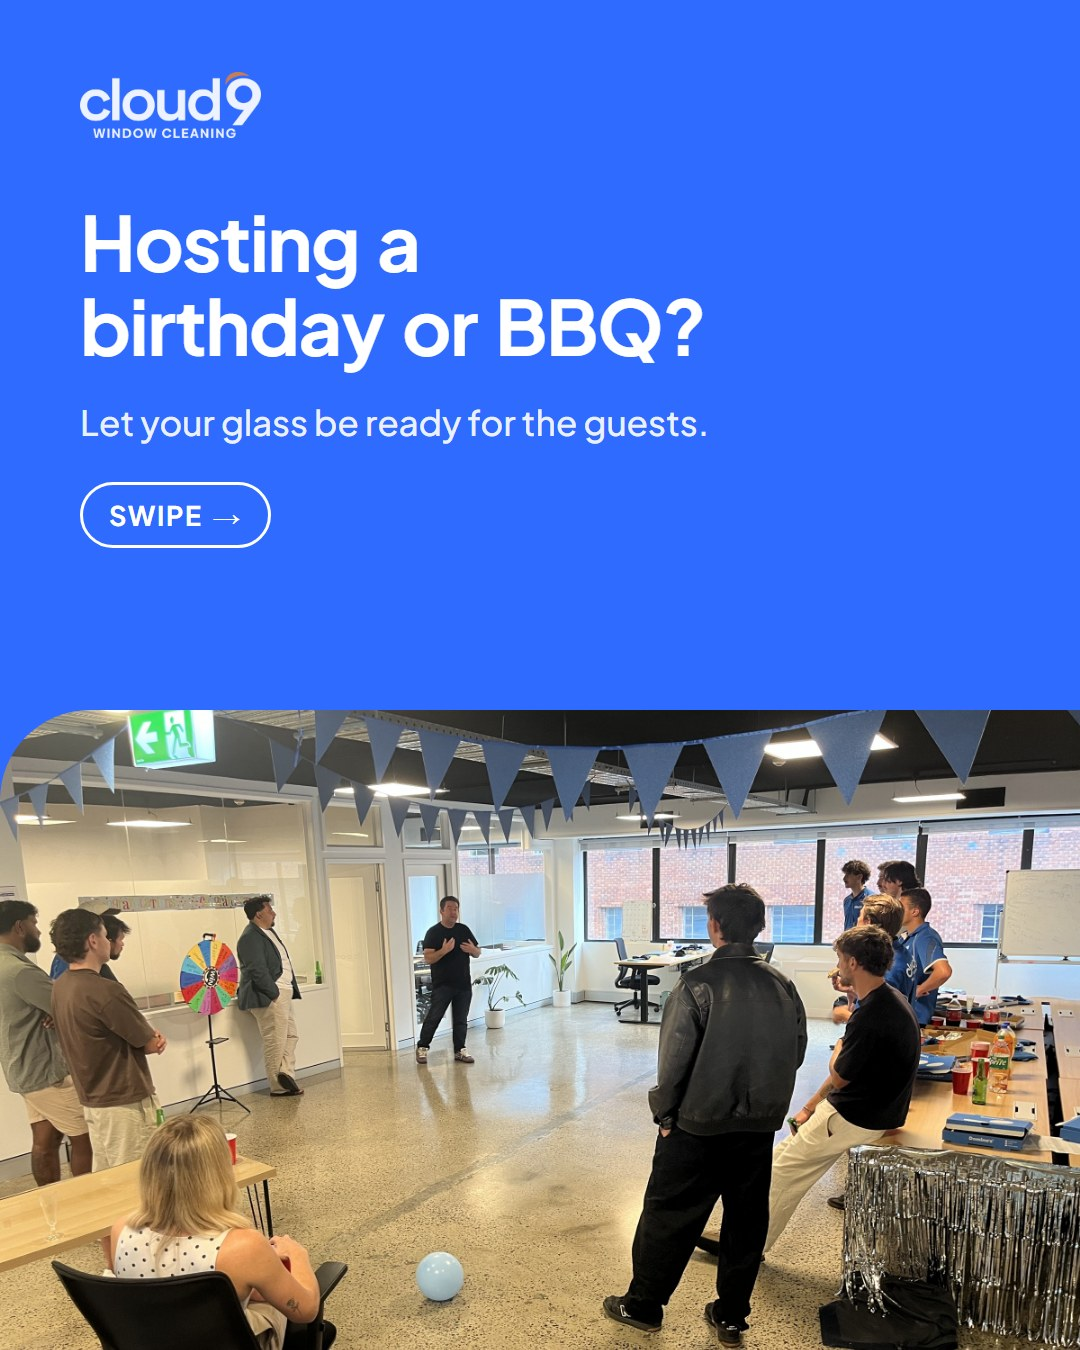
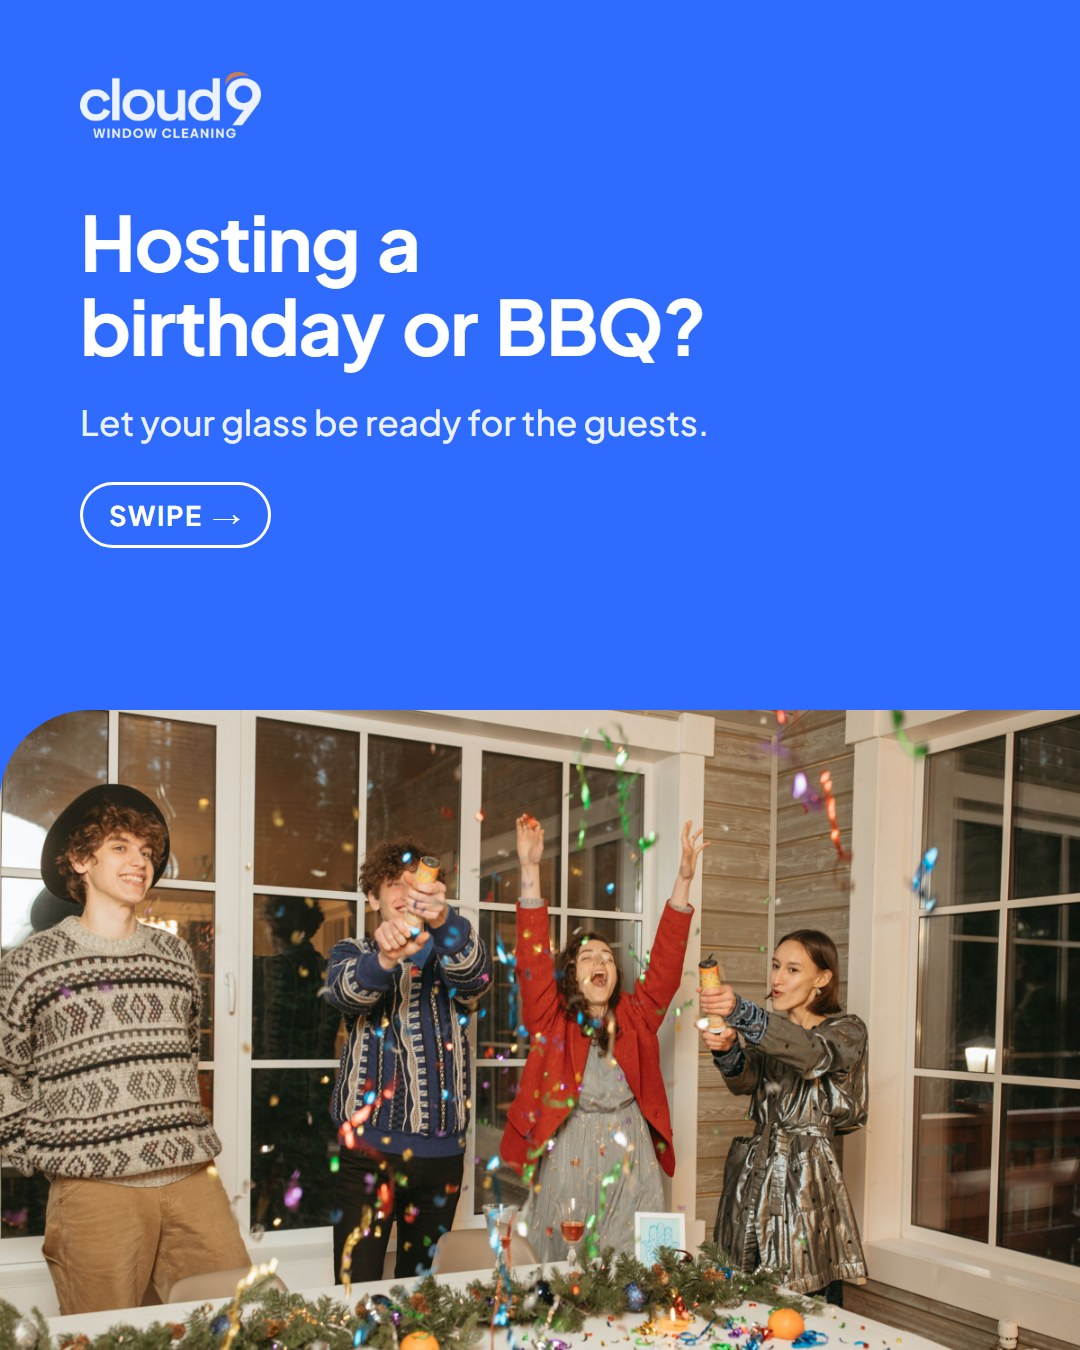
Cloud 9 planner: Fri 27 Nov BBQ carousel slide 1 now uses the Pexels party photo (Daniel not in photos) (Maria)

diff --git a/cloud9-content/index.html b/cloud9-content/index.html
@@ -240,7 +240,7 @@ Get your place guest-ready across the North Shore, Northern Beaches, Sutherland 
 📞 0485 013 333 · cloud9windowcleaning.com.au
 
 #Airbnb #SydneyAirbnb #WindowCleaningSydney #Cloud9WindowCleaning`,{slides:S('img/airbnb',5)}),
- C('carousel','Fri 27 Nov','img/bbq-1.jpg',`Hosting a birthday or BBQ? 🎉
+ C('carousel','Fri 27 Nov','img/bbq-1.jpg?v=2',`Hosting a birthday or BBQ? 🎉
 
 Before the guests arrive, the glass is the first thing they see. Sliding doors, windows and the pool fence all catch the light.
 
@@ -250,7 +250,7 @@ Book your clean a few days before and enjoy the day with a spotless view.
 
 Call 0485 013 333 or book at cloud9windowcleaning.com.au
 
-#cloud9windowcleaning #sydneywindowcleaning #poolfencecleaning #partyready`,{slides:S('img/bbq',4)}),
+#cloud9windowcleaning #sydneywindowcleaning #poolfencecleaning #partyready`,{slides:['img/bbq-1.jpg?v=2','img/bbq-2.jpg','img/bbq-3.jpg','img/bbq-4.jpg']}),
 ];
 const JAMES=C('reel','Sat 21 Nov','img/james-speech.jpg',`It's the little things you notice 💙
 
